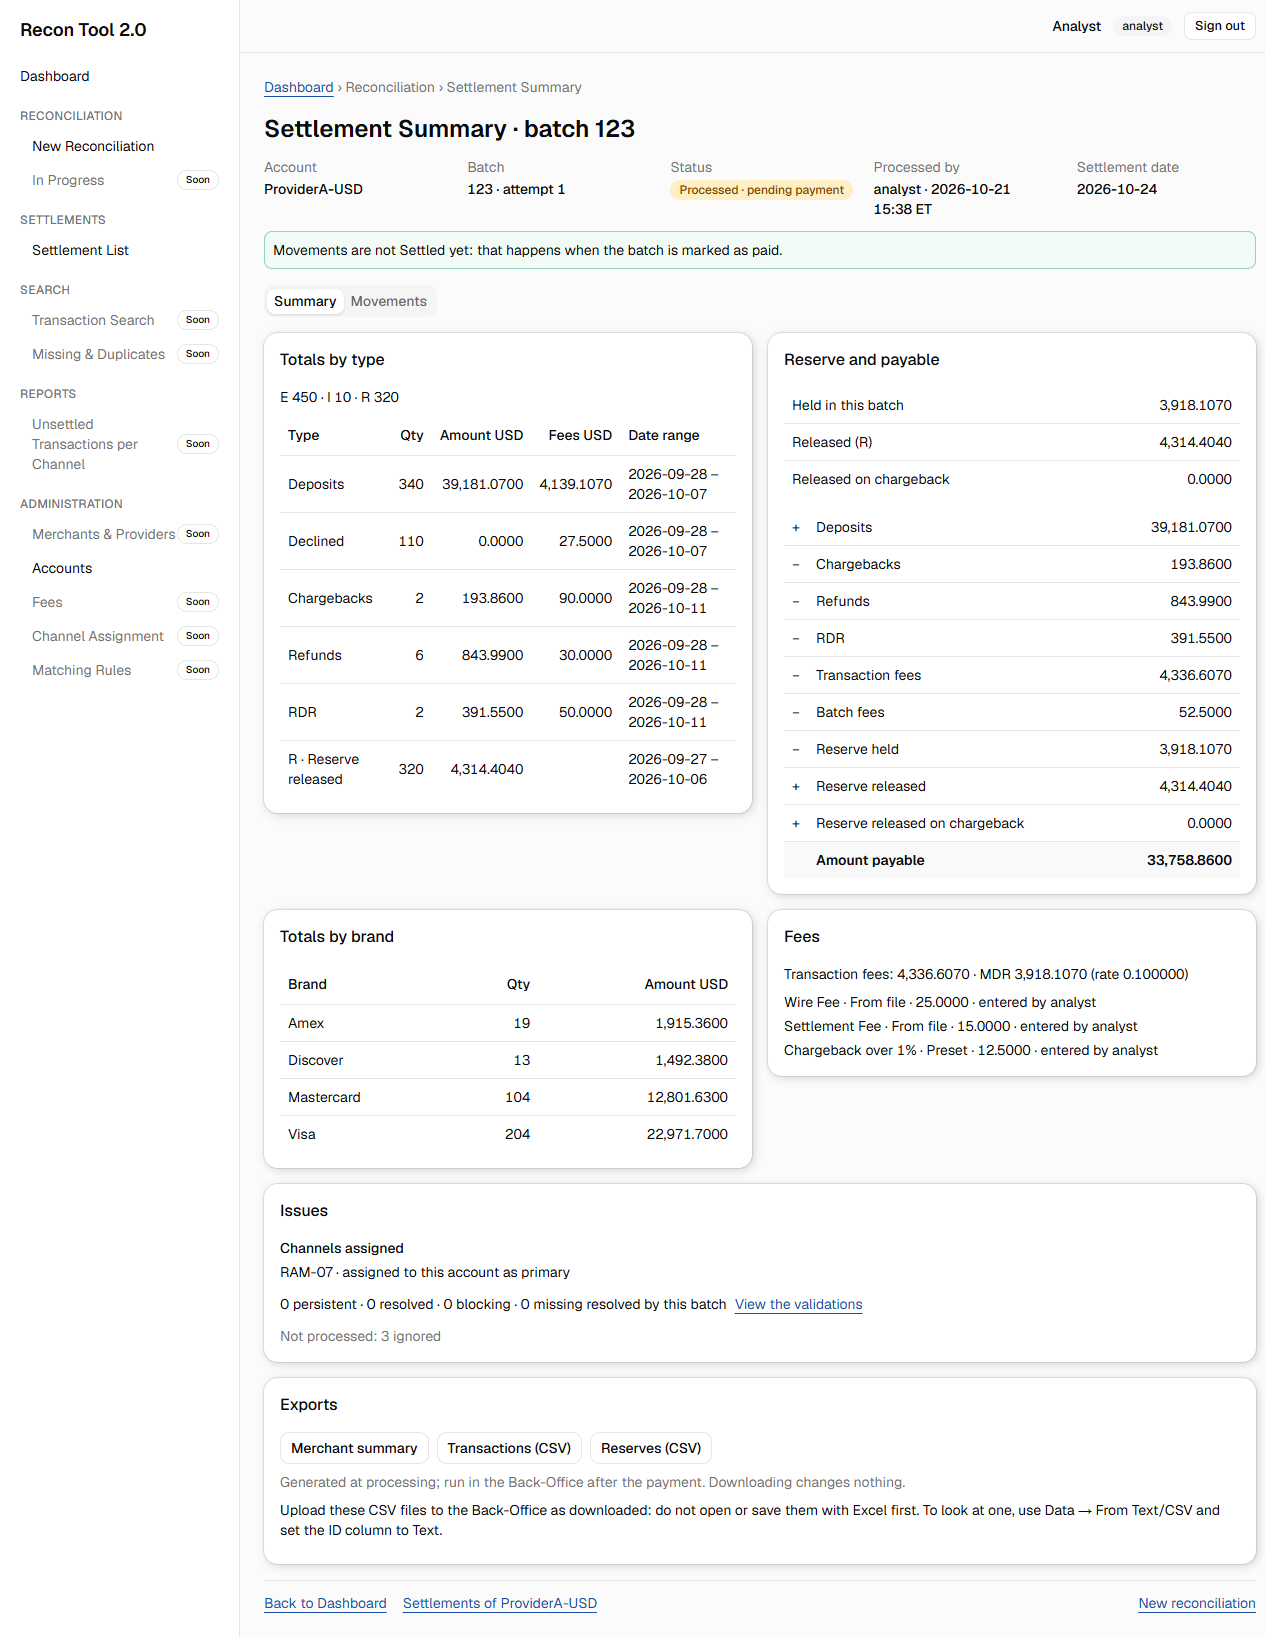
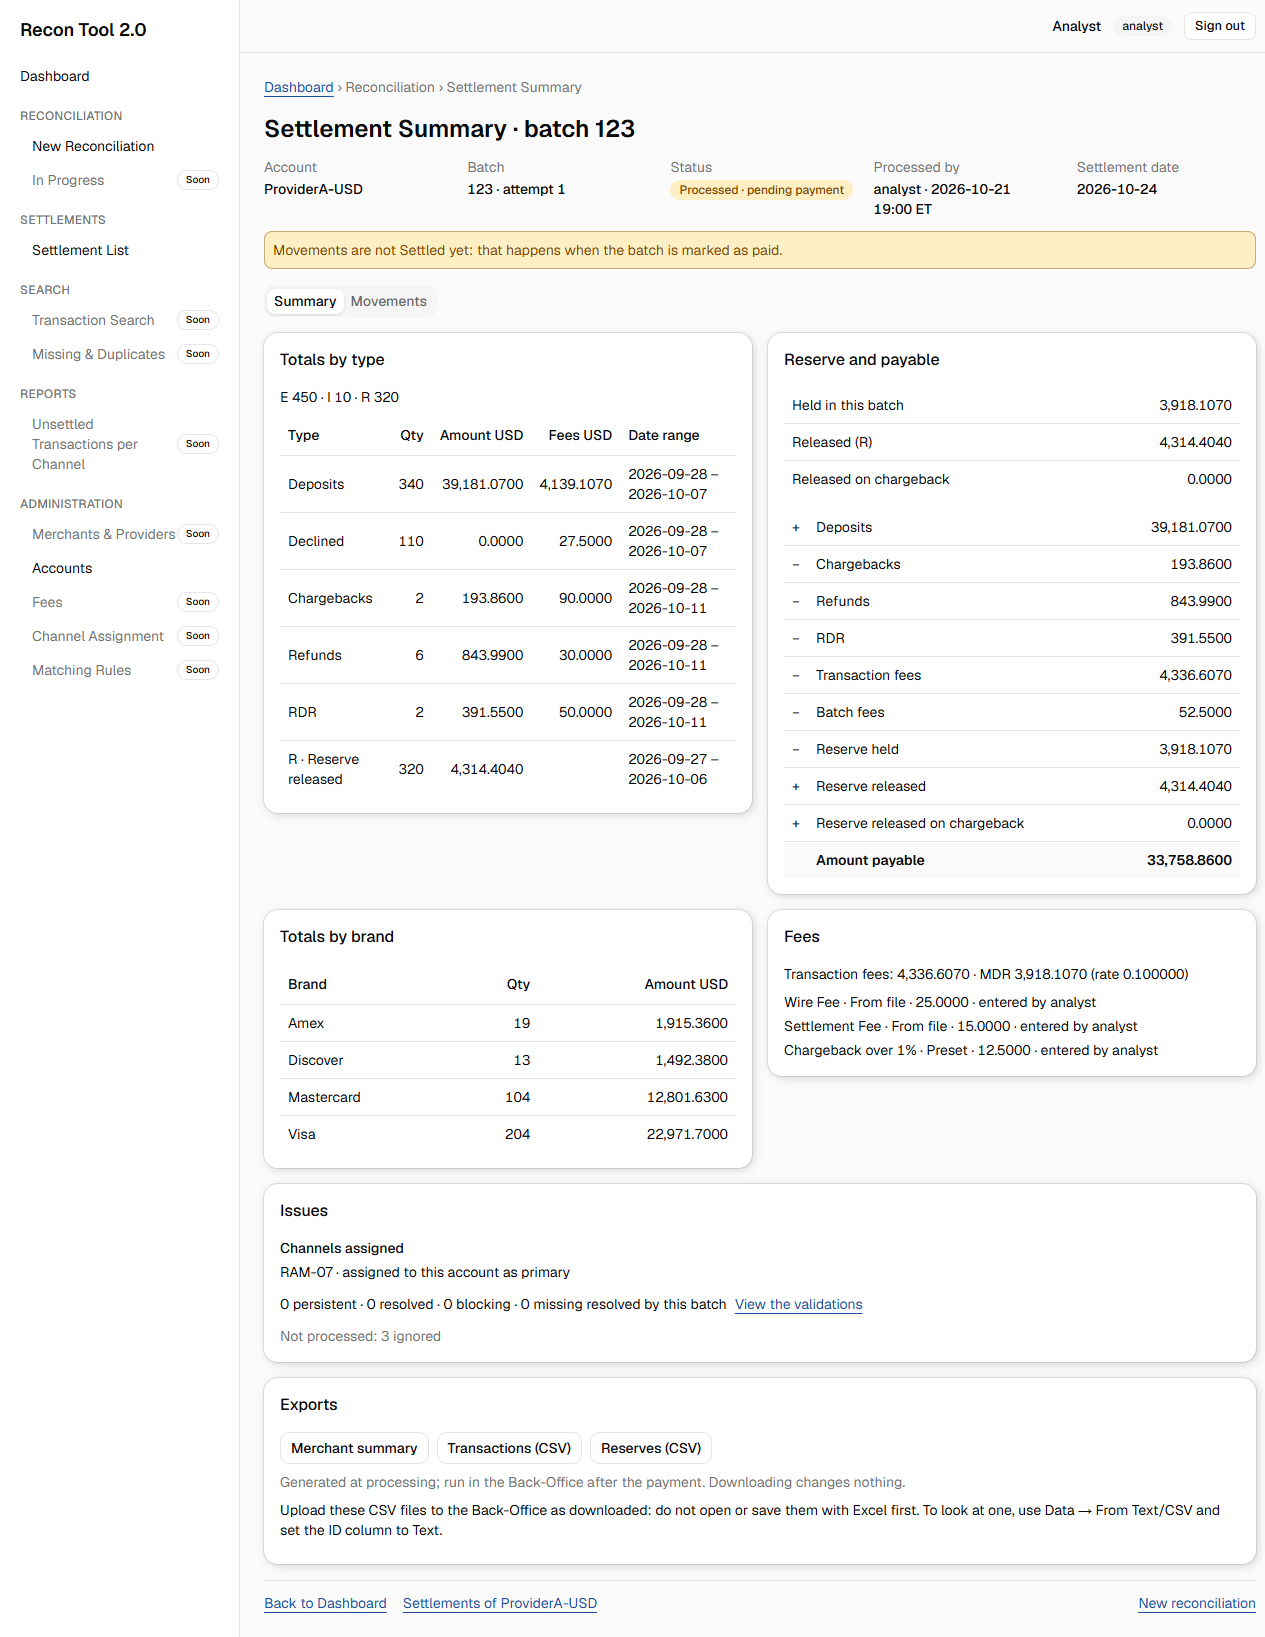
docs(ui-polish): captura del Summary con el aviso de no Settled en ámbar

Changed region(s): [[0.185, 0.1246, 1.0, 0.1869]]

diff --git a/openspec/changes/ui-polish/tasks.md b/openspec/changes/ui-polish/tasks.md
@@ -93,7 +93,7 @@ Orden test-first en los grupos de comportamiento: los tests se escriben y se ven
 - [x] 12.4 Describir en el PR los tests cambiados a propósito (D15) con el escenario que los motiva, las mediciones de contraste, la clasificación de D8 aprobada por la persona y los issues #85, #86 y #87
 - [x] 12.5 Commit: `docs(ui-polish): capturas de Validations, Settlement y Settlement List tras el pulido de la interfaz`
 - [x] 12.12 Revisión del PR #91: una petición de foco dura una navegación y no se pide si la lista no cambia (D13); aviso de no Settled con el tono warning (D8); textos de por qué es faltante con "batch vigente del proveedor", también en corridas anteriores (D18); contraste calculado y no medido (D8, spec web-shell); excepciones de tests de clases (D15); nombre del test de `RowsTable`; docs desactualizados (wireframes, revisión de UAT, proposal, design). Commits docs y test + fix por punto, y push
-- [ ] 12.13 Con turno de base: rehacer solo `settlement-summary.png` con `pnpm screenshots:web-settlement` (aviso de no Settled en ámbar), revisarla y versionarla; la persona vuelve a sembrar después
+- [x] 12.13 Con turno de base: rehacer solo `settlement-summary.png` con `pnpm screenshots:web-settlement` (aviso de no Settled en ámbar), revisarla y versionarla; la persona vuelve a sembrar después
 
 ## Workflow follow-up
 
